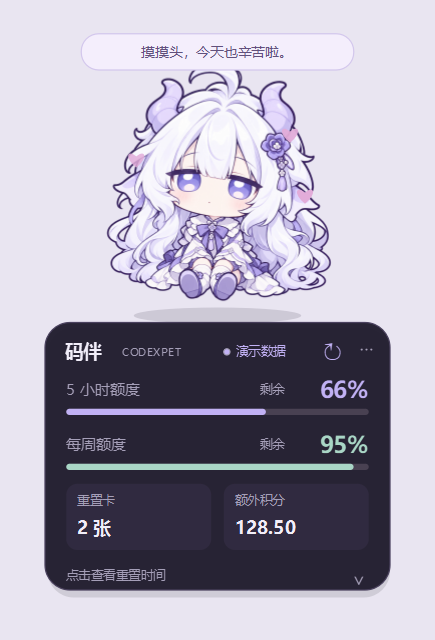
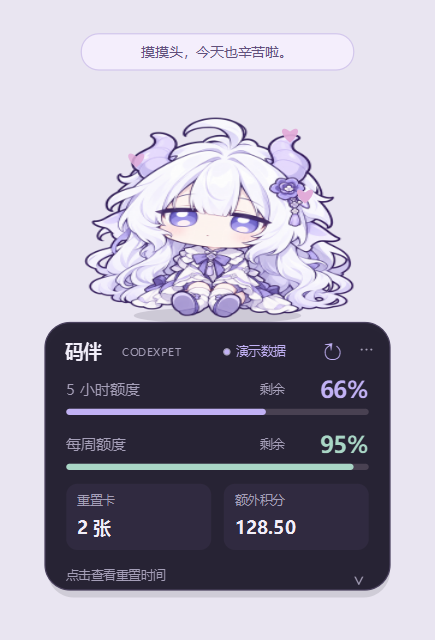
Anchor chibi feet and squash sideways on head pats

Changed region(s): [[0.1793, 0.0938, 0.8069, 0.5]]

diff --git a/src/codexpet/app.py b/src/codexpet/app.py
@@ -9,7 +9,7 @@ import threading
 import time
 
 from PySide6.QtCore import QPoint, QPointF, QRectF, Qt, QTimer, QThread, Signal, QLockFile
-from PySide6.QtGui import QAction, QActionGroup, QColor, QDesktopServices, QFont, QIcon, QPainter, QPainterPath, QPen, QPixmap
+from PySide6.QtGui import QAction, QActionGroup, QColor, QDesktopServices, QFont, QIcon, QPainter, QPainterPath, QPen, QPixmap, QRegion
 from PySide6.QtNetwork import QLocalServer, QLocalSocket
 from PySide6.QtWidgets import QApplication, QFileDialog, QMenu, QMessageBox, QSystemTrayIcon, QWidget
 from PySide6.QtCore import QUrl
@@ -88,6 +88,7 @@ class PetWindow(QWidget):
         self.pet = QPixmap(str(asset_path(APPEARANCES[self.appearance].asset)))
         if self.pet.isNull():
             raise RuntimeError('Missing pet appearance asset')
+        self.pet_floor = 1 + 202 * (QRegion(self.pet.mask()).boundingRect().bottom() + 1) / self.pet.height()
         self.setWindowTitle('CodexPet · 码伴')
         self.setWindowIcon(QIcon(self.pet))
         flags = Qt.WindowType.FramelessWindowHint | Qt.WindowType.Tool
@@ -262,11 +263,13 @@ class PetWindow(QWidget):
         sprite_width = 202 * self.pet.width() / self.pet.height()
         p.save()
         if pat_active:
-            vertical, angle = pat_transform(self.appearance, pat_age)
-            p.translate(0, vertical)
-            p.translate(150, 195)
+            width_scale, height_scale, angle = pat_transform(self.appearance, pat_age)
+            # Anchor the visible feet, excluding transparent padding in the PNG.
+            pivot_y = self.pet_floor if self.appearance == 'chibi' else 195
+            p.translate(150, pivot_y)
+            p.scale(width_scale, height_scale)
             p.rotate(angle)
-            p.translate(-150, -195)
+            p.translate(-150, -pivot_y)
         p.drawPixmap(QRectF((BASE_WIDTH - sprite_width) / 2, 1 + bob, sprite_width, 202), self._sprite_cache, QRectF(self._sprite_cache.rect()))
         p.restore()
         if pat_active:
@@ -461,6 +464,7 @@ class PetWindow(QWidget):
             return
         self.appearance = selected
         self.pet = sprite
+        self.pet_floor = 1 + 202 * (QRegion(self.pet.mask()).boundingRect().bottom() + 1) / self.pet.height()
         self._sprite_cache = None
         self._sprite_key = None
         self.pat_started = -100.0

diff --git a/tests/test_appearance.py b/tests/test_appearance.py
@@ -7,16 +7,19 @@ from codexpet.appearance import PAT_DURATION, pat_transform
 
 
 class AppearanceTests(unittest.TestCase):
-    def test_chibi_bounces_without_sway_or_sinking_below_floor(self):
+    def test_chibi_compresses_downward_and_expands_sideways_without_rotation(self):
         samples = [pat_transform('chibi', PAT_DURATION * i / 120) for i in range(121)]
-        self.assertTrue(all(angle == 0 and -15 <= offset <= 0 for offset, angle in samples))
-        self.assertLess(samples[20][0], -10)
+        self.assertTrue(all(angle == 0 and 0.8 <= height <= 1 and 1 <= width <= 1.25
+                            for width, height, angle in samples))
+        self.assertLess(samples[20][1], 0.85)
+        for width, height, _ in samples:
+            self.assertAlmostEqual(width * height, 1)
         for phase in (0, 1 / 3, 2 / 3, 1):
-            self.assertAlmostEqual(pat_transform('chibi', PAT_DURATION * phase)[0], 0)
-        self.assertGreater(samples[100][0], samples[20][0])
+            self.assertAlmostEqual(pat_transform('chibi', PAT_DURATION * phase)[1], 1)
+        self.assertGreater(samples[100][1], samples[20][1])
 
     def test_dragon_sways_and_both_return_to_rest(self):
-        self.assertNotEqual(pat_transform('dragon', 0.15)[1], 0)
+        self.assertNotEqual(pat_transform('dragon', 0.15)[2], 0)
         for appearance in ('dragon', 'chibi'):
             for age in (-1, PAT_DURATION, 5):
-                self.assertEqual(pat_transform(appearance, age), (0, 0))
+                self.assertEqual(pat_transform(appearance, age), (1, 1, 0))

diff --git a/src/codexpet/appearance.py b/src/codexpet/appearance.py
@@ -13,16 +13,19 @@ class Appearance:
 
 APPEARANCES = {
     'dragon': Appearance('白龙 · 轻晃', 'pet-v2.png', (92, 5, 116, 94), 'sway'),
-    'chibi': Appearance('圆脸 Q 版 · 上下弹', 'pet-chibi.png', (70, 12, 160, 120), 'bounce'),
+    'chibi': Appearance('圆脸 Q 版 · 挤压回弹', 'pet-chibi.png', (70, 12, 160, 120), 'squash'),
 }
 PAT_DURATION = 1.4
 
 
 def pat_transform(appearance, age):
-    """Return vertical offset and degrees. Three decaying, above-ground hops."""
+    """Return horizontal scale, vertical scale and rotation around a fixed base."""
     if not 0 <= age < PAT_DURATION:
-        return 0.0, 0.0
+        return 1.0, 1.0, 0.0
     progress = age / PAT_DURATION
-    if APPEARANCES[appearance].pat_style == 'bounce':
-        return -15 * abs(math.sin(3 * math.pi * progress)) * (1 - progress), 0.0
-    return 0.0, math.sin(age * 10) * 3 * (1 - progress)
+    if APPEARANCES[appearance].pat_style == 'squash':
+        compression = 0.20 * math.sin(3 * math.pi * progress) ** 2 * (1 - progress)
+        height = 1 - compression
+        # Preserve area: a deeper press produces proportionally wider sides.
+        return 1 / height, height, 0.0
+    return 1.0, 1.0, math.sin(age * 10) * 3 * (1 - progress)

diff --git a/src/codexpet/__init__.py b/src/codexpet/__init__.py
@@ -1,2 +1,2 @@
 """CodexPet · 码伴."""
-__version__ = '0.3.0'
+__version__ = '0.3.1'

diff --git a/docs/素材说明.md b/docs/素材说明.md
@@ -14,4 +14,4 @@
 Use case: stylized-concept. Asset: production transparent PNG standing full-body sprite for a Windows desktop companion. The user says these three reference images define the character. Image 1 and 2 establish character identity and costume. Image 3 is the PRIMARY proportion and art-style reference: match its front-facing chibi figure, approximately 3 heads tall, NOT adult realistic proportions, NOT a new redesign. Create ONE front-facing full-body character, standing relaxed, with precisely these identifying features: long flowing white hair with very pale lilac shadows, curled single ahoge, two upward white segmented dragon horns, pointed ears, soft violet eyes, reserved calm slightly sleepy expression; white and silver high-neck fantasy Chinese-inspired long gown with pale lavender lining and cascading detached sleeves; silver interwoven-knot ornaments at one side of head and waist with tiny tassels; two small pale lavender dragon wings visible at the sides, a fluffy-scaled white/lilac dragon tail curling around one side. Make the chibi outfit modest, closed and comfortable, no emphasized anatomy. Refined clean dark-lavender outlines, soft pastel anime shading; pale white/lavender palette. Keep all horns, wing tips, tail and feet fully in frame. Centered silhouette about 90% of image height with a small transparent margin. True transparent alpha background. No white backdrop, no floor, no checkerboard drawn in, no text, no signature, no UI, no watermark, no timestamp. Ignore the reference's bottom watermarks; they are not character design elements. Single front pose only, NOT multiple views or a contact sheet. Remain readable at 180-220 pixels. Preserve the provided character identity and the third reference's costume, horns, wings and tail.
 ```
 
-运行时按窗口大小做高质量缩放，保持原始宽高比。白龙摸头使用轻微旋转，圆脸 Q 版使用三次逐渐减弱的垂直弹跳；两者都有本地爱心与短句反馈。不修改原图，不调用模型。
+运行时按窗口大小做高质量缩放，静止时保持原始宽高比。白龙摸头使用轻微旋转；圆脸 Q 版以可见底部为固定点，纵向压缩时按反比横向变宽，三次逐渐减弱后恢复原比例。两者都有本地爱心与短句反馈。不修改原图，不调用模型。
